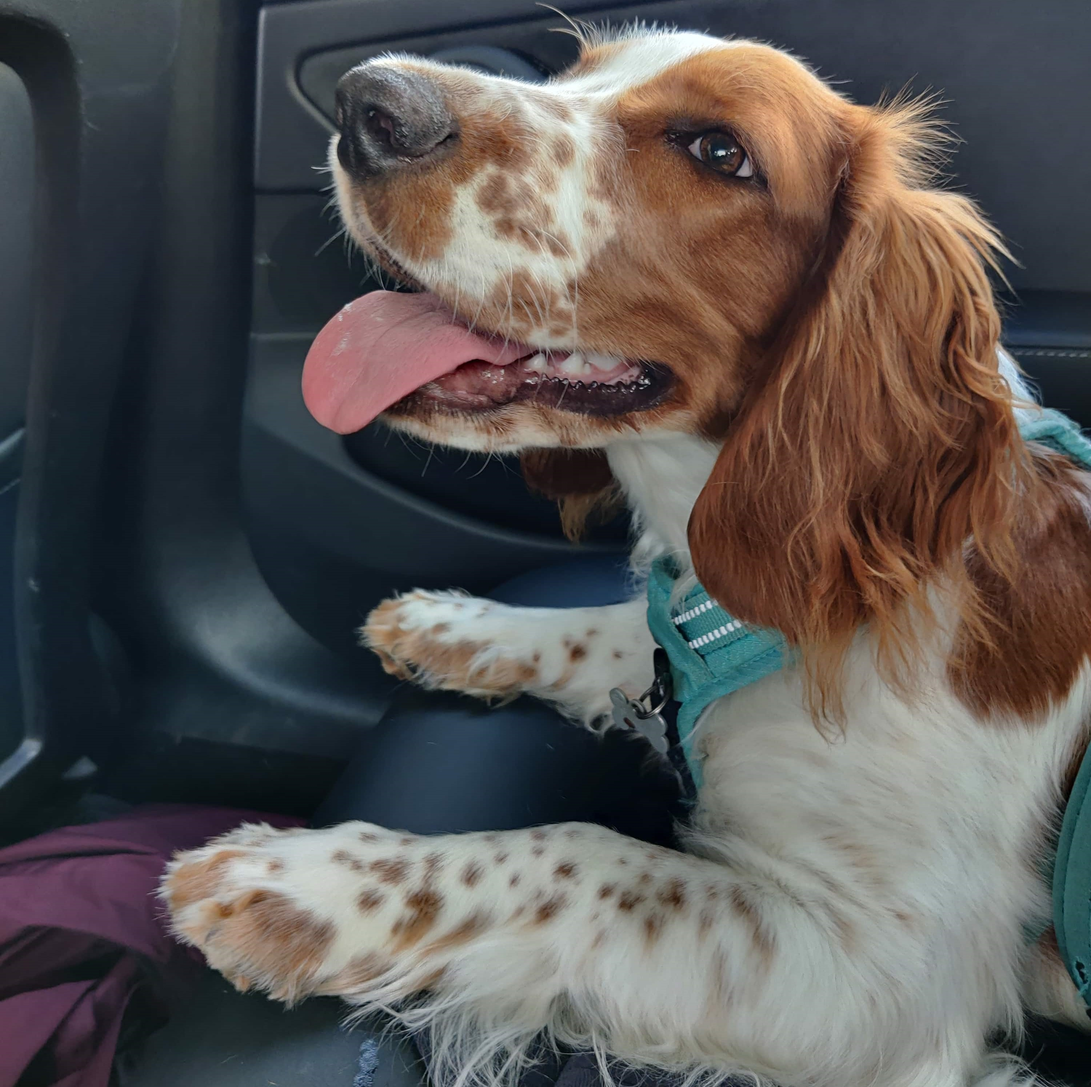
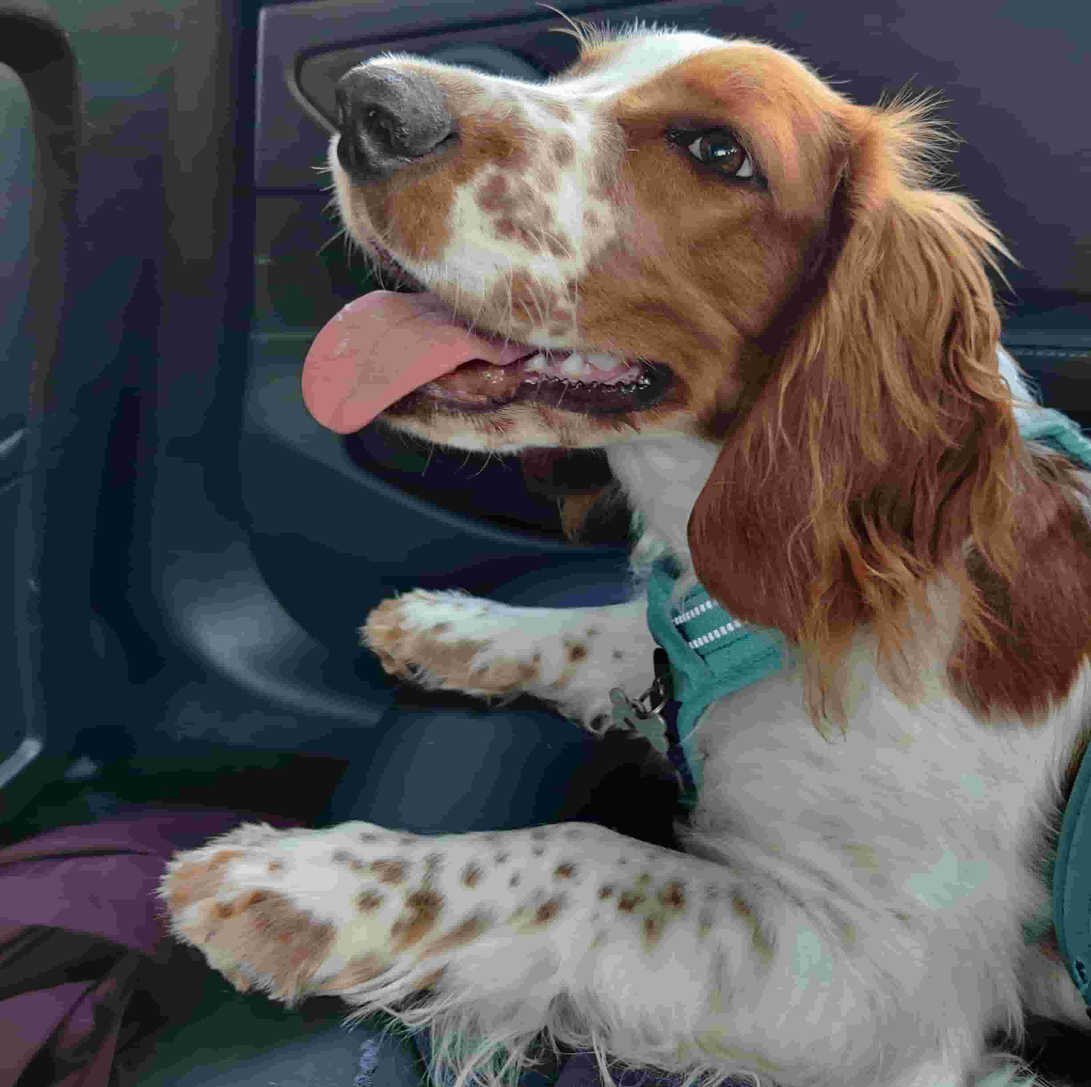
compressed my larger images for better prestanda

diff --git a/script/about-me.js b/script/about-me.js
@@ -17,7 +17,7 @@ function getAboutMe(){
     
     const evaImg = document.createElement('img');
     evaImg.classList.add('eva-logo');
-    evaImg.src = './images/profile-test-cropped.png';
+    evaImg.src = './images/profile-test-cropped.jpg';
     imgDiv.appendChild(evaImg);
     
     const stevieGrassImg = document.createElement('img');

diff --git a/css/home.css b/css/home.css
@@ -117,7 +117,7 @@ main {
     justify-content: end;
     padding: 1rem;
     color: white;
-    background-image: url(images/profile-test.png);
+    background-image: url(../images/profile-test.jpg);
     background-size: cover;
 }
 
